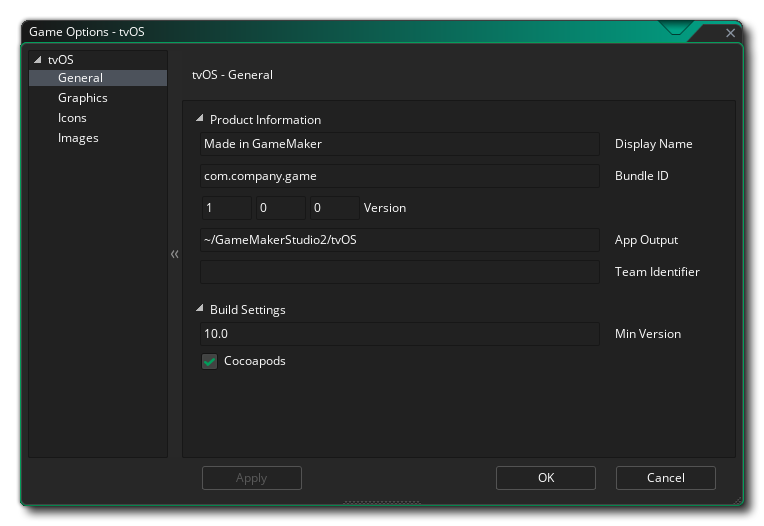
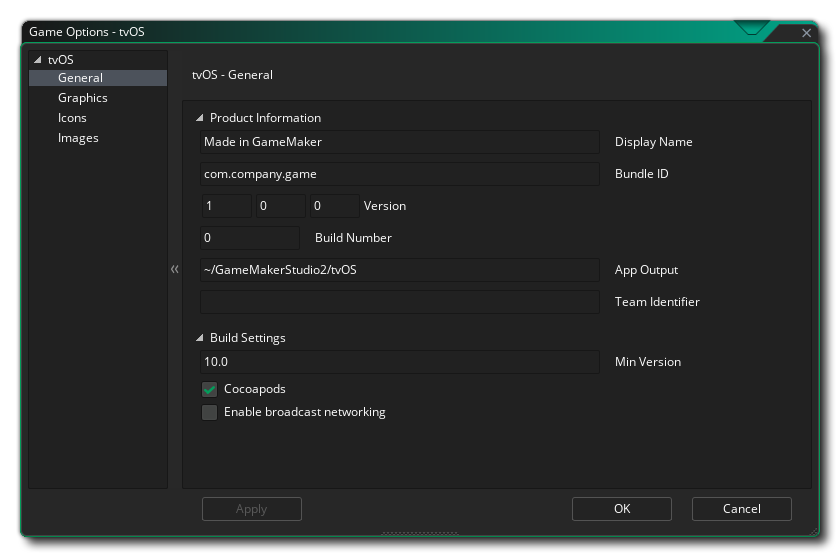
Feature][iOS/tvOS] Add multicast entitlement when broadcasts are used YoYoGames/GameMaker-Bugs#2027 * Updated for tvOS as well * Updated screenshots on both "Game Options" pages, listed option on tvOS Game Options page * Added tvOS to RH snippet

diff --git a/Manual/contents/Settings/Game_Options/tvOS.htm b/Manual/contents/Settings/Game_Options/tvOS.htm
@@ -4,7 +4,7 @@
 <head>
   <meta http-equiv="Content-Type" content="text/html; charset=utf-8" />
   <title>tvOS</title>
-  <meta name="generator" content="Adobe RoboHelp 2020" />
+  <meta name="generator" content="Adobe RoboHelp 2022" />
   <link rel="stylesheet" href="../../assets/css/default.css" type="text/css" />
   <script src="../../assets/scripts/main_script.js" type="module"></script>
   <meta name="rh-authors" content="Mark Alexander" />
@@ -16,14 +16,14 @@
   <!--<div class="body-scroll" style="top: 150px;">-->
   <h1><span data-field="title" data-format="default">tvOS</span> Game Options</h1>
   <p>This section outlines the different options available to you that control how your tvOS game projects will be compiled. The different sections are:</p>
-  <p> </p>
   <h2>General</h2>
   <p><img alt="iOS General Options" class="center" src="../../assets/Images/Settings/tvOS_General_Options.png" />Here you can fill in the <strong>Product Information</strong> about your game, including its <strong>Display Name</strong>, its <strong>Bundle ID</strong> and the <strong>Version </strong>info. Note that the Bundle ID must be in the correct reverse URL format for the final build of the game to work correctly, e.g. <span class="inline">com.[Company].[GameName]</span>. You can also set the <strong>App Output</strong> location on the build Mac, and you can give the <strong>Team Identifier</strong> that you wish to use for signing the final application that <span data-keyref="GameMaker Name">GameMaker</span> creates for you. Setting it here will override the Team ID that you have supplied in the <a href="../../Setting_Up_And_Version_Information/Platform_Preferences/tvOS.htm">tvOS Preferences</a>.</p>
-  <p>Finally there&#39;s the <strong>CocoaPods</strong> option. Check it to automate building using the <a href="https://cocoapods.org/">CocoaPods</a> dependency manager. For detailed information, see the following guide:</p>
+  <p>Below that is the <strong>CocoaPods</strong> option. Check it to automate building using the <a href="https://cocoapods.org/">CocoaPods</a> dependency manager. For detailed information, see the following guide:</p>
   <ul class="colour">
     <li><a href="https://help.yoyogames.com/hc/en-us/articles/360008958858">iOS and tvOS: Using Cocoa Pods</a></li>
   </ul>
   <div data-conref="../../assets/snippets/Note_important_CocoaPods.hts"> </div>
+  <p>Lastly, you can <strong id="enable_broadcast_networking">Enable broadcast networking</strong>. When enabled, <span data-keyref="GameMaker Name">GameMaker</span> will add the multicast entitlement (<a href="https://developer.apple.com/documentation/bundleresources/entitlements/com_apple_developer_networking_multicast">com.apple.developer.networking.multicast</a>) to broadcast or multicast messages that you send in your game.</p>
   <h2>Graphics</h2>
   <p><img alt="tvOS Graphics Options" class="center" src="../../assets/Images/Settings/tvOS_Graphics_Options.png" />Here you can change the following details related to how your game will be displayed, with the following options available:</p>
   <ul class="colour">
